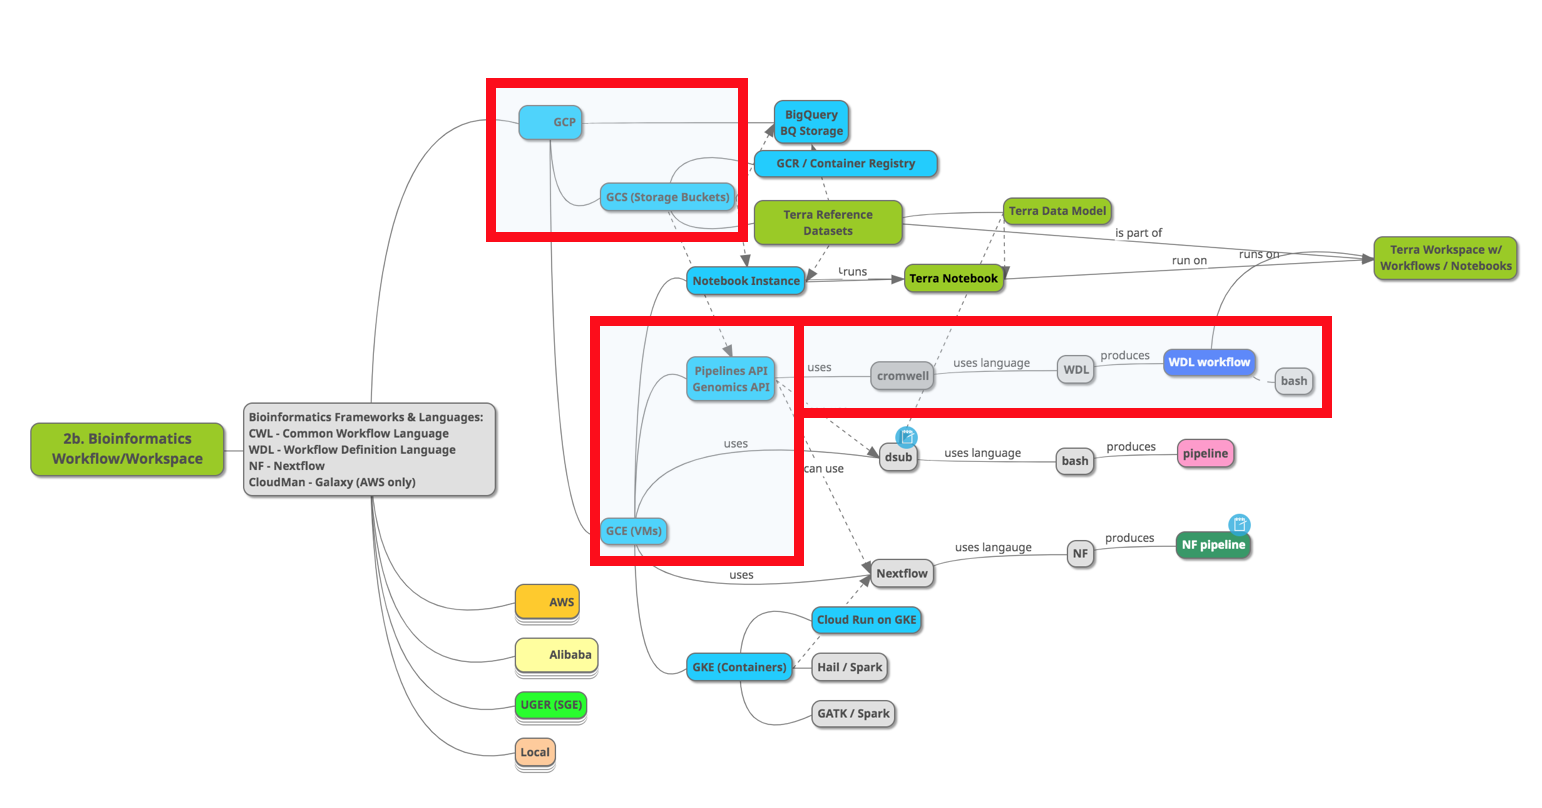
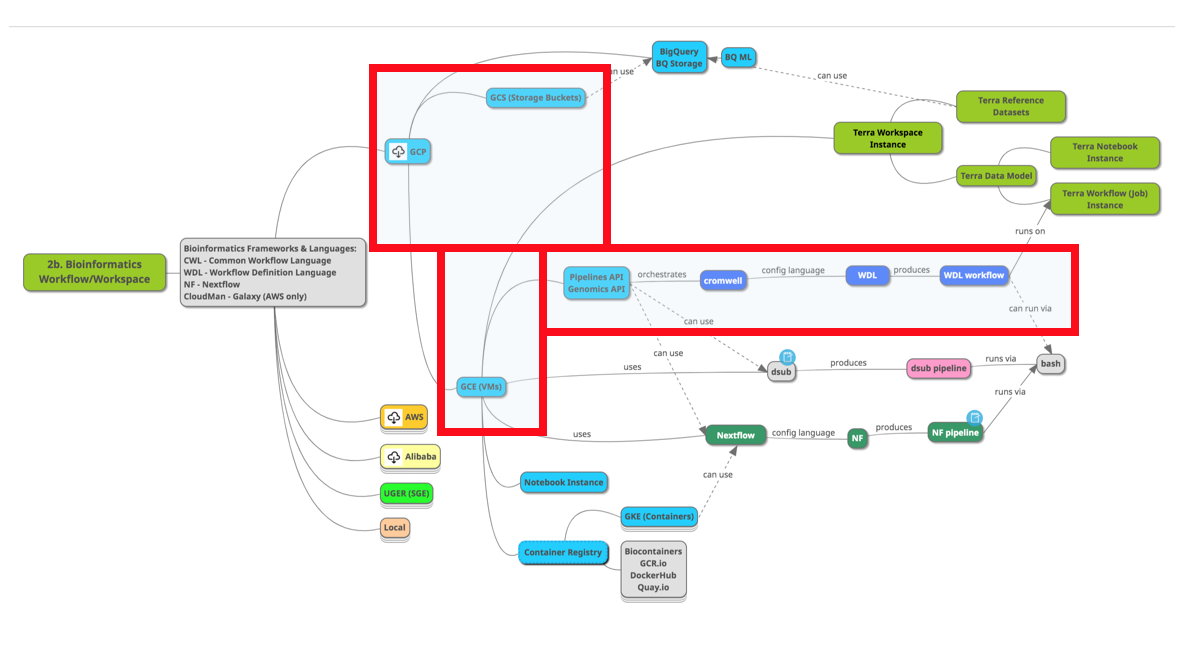
adding to cromwell article

Changed region(s): [[0.0, 0.0606, 0.9966, 0.9697], [0.6852, 0.0909, 0.7163, 0.1212]]

diff --git a/2_Virtual_Machines_&_Docker_Containers/7_Use_Cromwell_&_WDL_for_Pipelines.md b/2_Virtual_Machines_&_Docker_Containers/7_Use_Cromwell_&_WDL_for_Pipelines.md
@@ -1,15 +1,14 @@
-# Use cromwell and WDL for Pipelines
-
+# Use Cromwell and WDL for Pipelines
 
 ### Why do this
  - You want to use [The Broad Institute's cromwell](https://github.com/broadinstitute/cromwell) orchestration engine to scale your analysis job
  - You want to use [The Broad's WDL (workflow definition language)](https://software.broadinstitute.org/wdl) for cromwell to describe your tool and workflow inputs and outputs
- - Example workfllow shown below
+ - Example workflow pattern shown below
 
  [![wdl-cromwell](/images/wdl-cromwell.png)]()
 
 ### What is this
- - Scaling GCE w/Google Pipelines API, cromwell and WDL
+ - Scaling Compute Engine w/Google Pipelines API, cromwell and WDL
  - Here is the Pipelines API sample (using best practice for [The Broad’s GATK tools](https://software.broadinstitute.org/gatk/)).
   - You have a number of choices - this article covers the items highlighted in RED SQUARES
 
@@ -23,17 +22,17 @@
 
 ### How to do this
  - [This tutorial](https://wdl-runner.readthedocs.io/en/latest/GettingStarted/TutorialOverview/#tutorial-scenario) shows running a multi-stage workflow on GCP
-    - The workflow is **launched** with the Google Genomics Pipelines API
-    - The workflow is **defined** using the OpenWDL organization's Workflow Definition Language (WDL)
-    - The workflow stages are **orchestrated** by the Broad Institute's Cromwell
-    - When submitted using the Pipelines API, the workflow **runs** on multiple Google Compute Engine virtual machines. 
-      - First a master node is created for Cromwell
-      - Then Cromwell submits each stage of the workflow as one or more **separate pipelines**
+    - The workflow is **launched** with Google Pipelines API
+    - The workflow is **defined** using WDL
+    - The workflow stages are **orchestrated** by cromwell
+    - The workflow **runs** on multiple Compute Engine VMs
+      - a master node is created for cromwell
+      - cromwell submits each workflow stage as 1+ **separate pipelines**
  - Run a Broad Institute GATK best practice pipeline on Google Genomics/Pipelines API using WDL and cromwell - l[link](https://cloud.google.com/genomics/docs/tutorials/gatk)
 
 ### How to verify you've done it
- - Review the files in the output destinations (CloudStorage buckets) to check they match the expected results
- - Use GCP Stackdriver to monitor the overhead (CPU, memory etc...usage) for the GCE VMs during job executions
+ - Review the files in the output destinations (Cloud Storage buckets) to check they match the expected results
+ - Use GCP Stackdriver to monitor the overhead (CPU, memory etc...usage) for the Compute Engine VMs during job executions
 
 ### Other Things to Know
  - Link to GATK Best Practice guidlines from The Broad - [link](https://software.broadinstitute.org/gatk/best-practices/)
